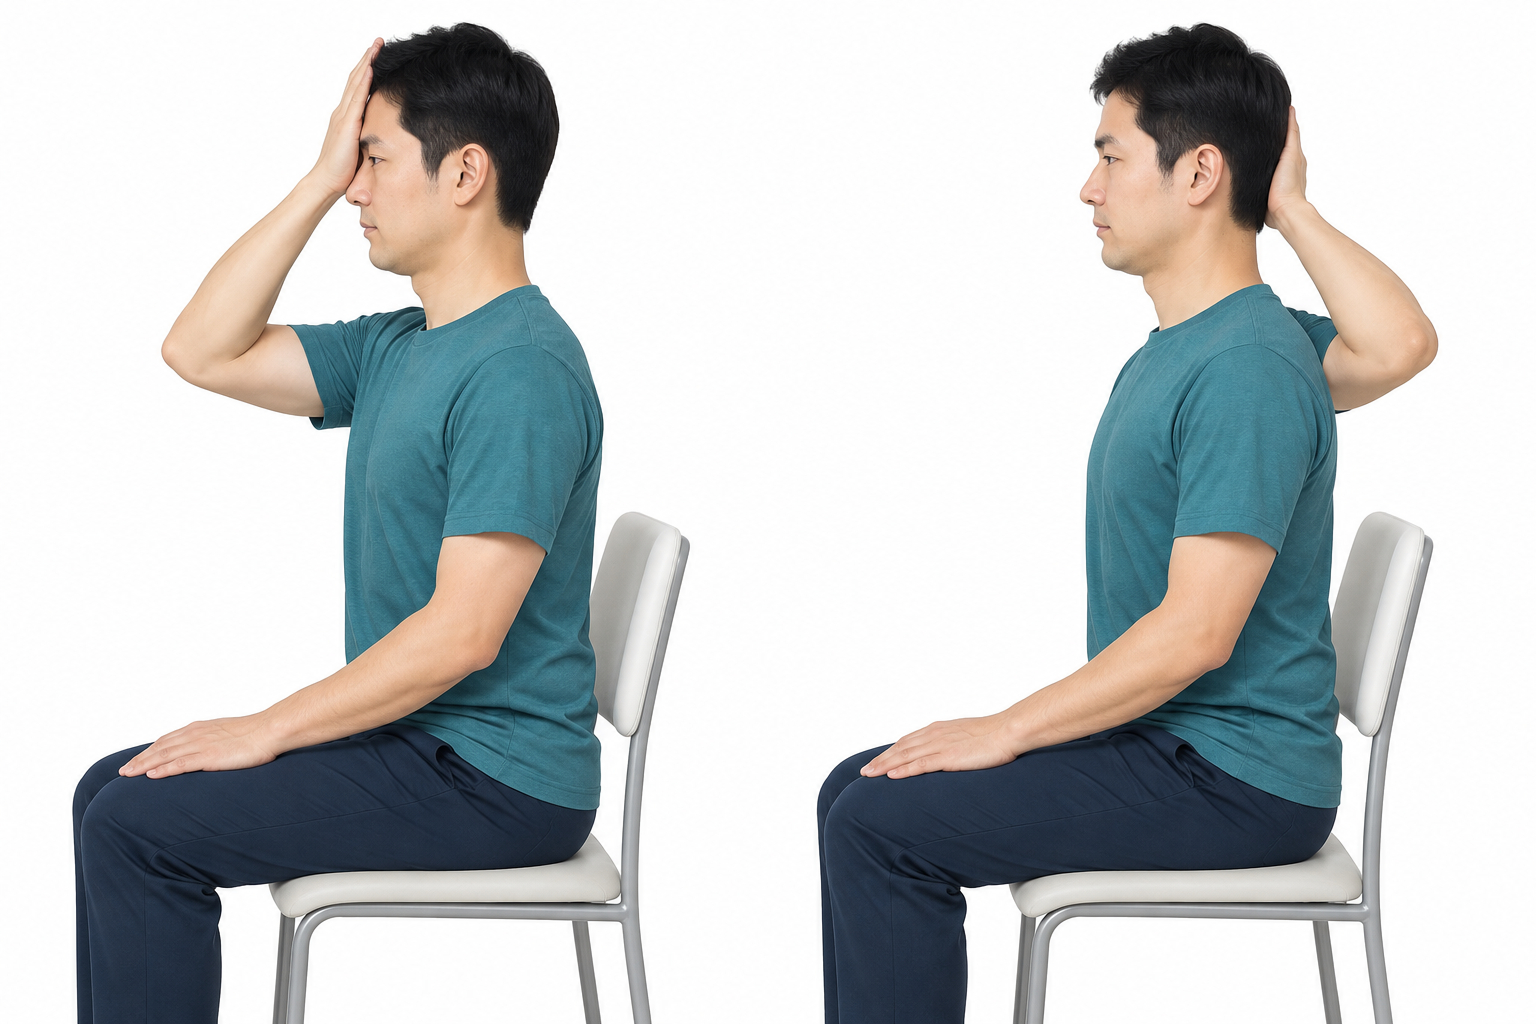
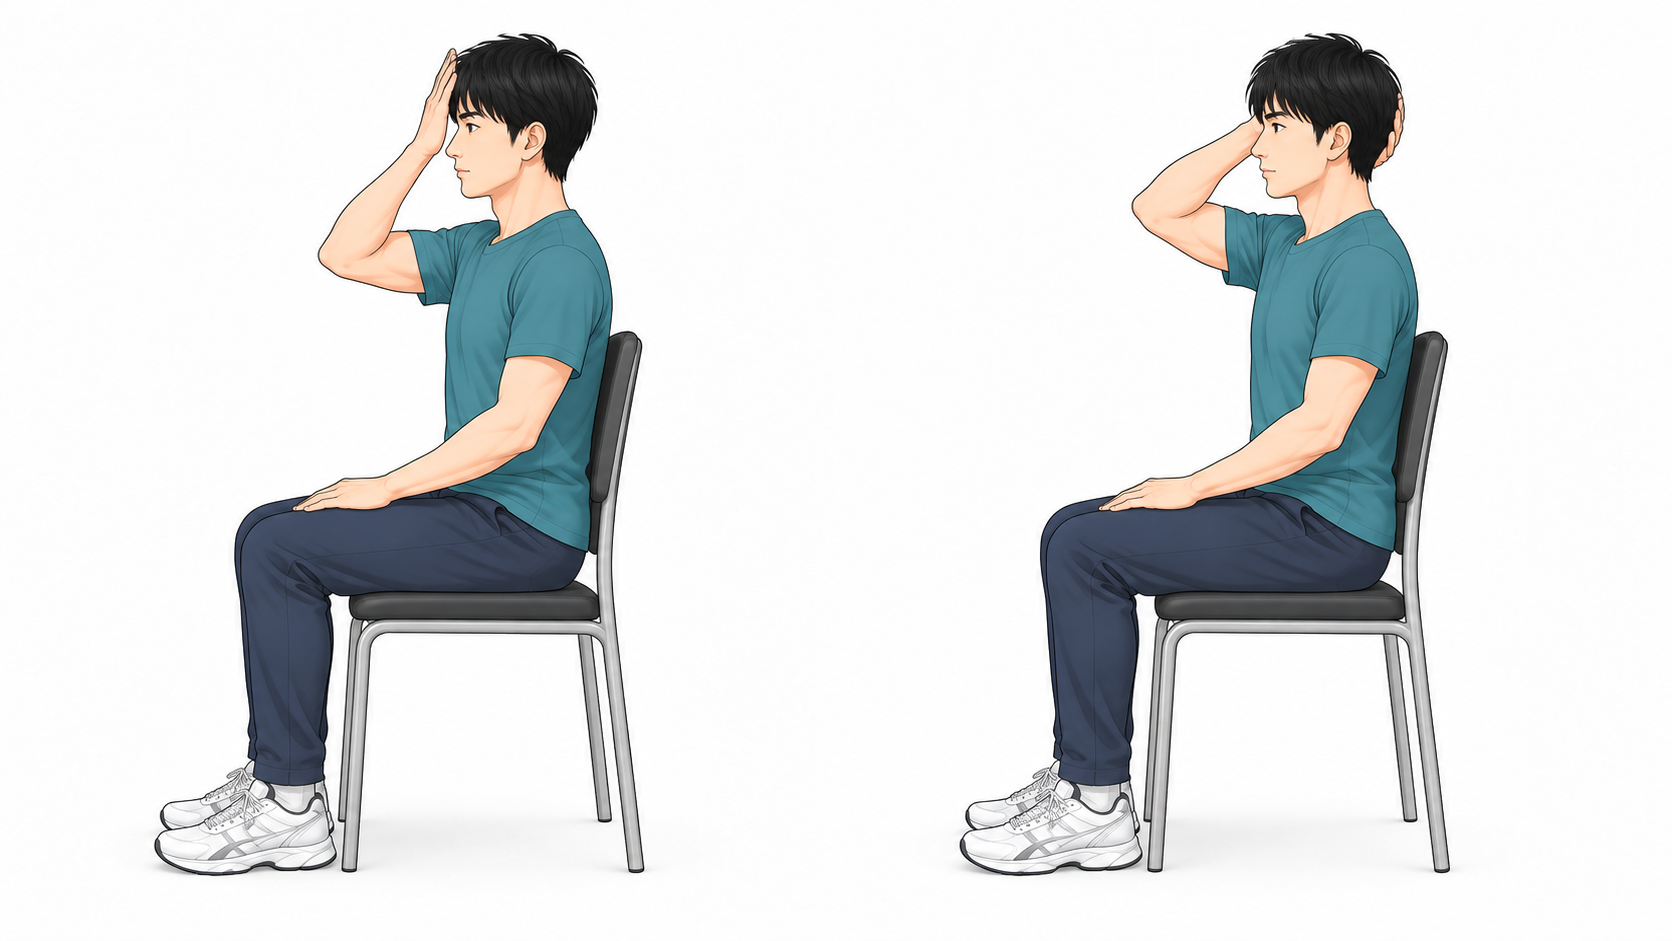
fix: unify four exercise illustrations

diff --git a/clinical-catalog.js b/clinical-catalog.js
@@ -909,22 +909,22 @@ const data={
     "T20": {
       "id": "T20",
       "key": "v02_T20",
-      "name": "横向きのゴムに耐える",
+      "name": "パロフプレス",
       "purpose": "回旋制御",
       "steps": [
-        "体の横に固定したゴムを胸前で持ち、両手を少し前へ伸ばして戻します。"
+        "体の横・胸の高さに固定したゴムを両手で胸前に持ちます。胸と骨盤を正面に保ったまま、両手を胸の正面へゆっくり押し出して戻します。左右を入れ替えて行います。"
       ],
       "doseProposal": "C：左右各5回",
       "caution": "体を回さない。分離症は回旋抵抗の許可を確認",
       "equipment": "ゴム、専用固定点",
       "gates": "G6該当時+G8",
-      "pose": "正面。固定点は真横の胸高。両手胸前→前方、骨盤前向き保持",
+      "pose": "正面。固定点は真横の胸高。両手を胸骨前から正中線上へ押し出し、胸郭・骨盤を正面に保持",
       "image": "images/T20.png",
-      "imageCaption": "",
-      "assetStatus": "採用候補",
-      "assetNotes": "側方胸高専用アンカー・胸前から前へ、骨盤前向き。",
+      "imageCaption": "横から引かれるゴムに対し、胸と骨盤を正面に保ったまま両手を前へ押し出します。",
+      "assetStatus": "生成画像・姿勢確認済み",
+      "assetNotes": "共通人物で統一。側方胸高アンカー、胸前から正中線上へ押し出す2姿勢、体幹・骨盤の正面保持を目視確認。",
       "clinicalStatus": "pending_review",
[2 lines of base64/hex data omitted]
     },
     "T21": {
       "id": "T21",
@@ -1824,11 +1824,11 @@ const data={
       "gates": "G0",
       "pose": "正面斜め。肘90°固定、棒の重心は手に近い。勢いを使わない",
       "image": "images/E08.png",
-      "imageCaption": "",
-      "assetStatus": "採用候補",
-      "assetNotes": "右肘体側で棒を回内外。短い木棒の把持位置は手に近い重心として読める。",
+      "imageCaption": "肘を体側で90度に保ち、前腕だけをゆっくり回して棒の向きを変えます。",
+      "assetStatus": "生成画像・姿勢確認済み",
+      "assetNotes": "共通人物で統一。右肘の体側固定、棒の垂直位から水平位への前腕回旋、正常な両上肢を目視確認。",
       "clinicalStatus": "pending_review",
[2 lines of base64/hex data omitted]
     },
     "E09": {
       "id": "E09",
@@ -2228,11 +2228,11 @@ const data={
       "gates": "G4該当時+G6該当時+G7+G8",
       "pose": "斜め上。低速で約30°の予定コース。固定足上の急な膝ねじりでない",
       "image": "images/P08.png",
-      "imageCaption": "",
-      "assetStatus": "採用候補",
-      "assetNotes": "予定された緩い曲線を数歩で進む。急な固定足上の捻りを描いていない。正確な角度・速度は本文に従う。",
+      "imageCaption": "床印に沿って低速で進み、予定した方向へ数歩かけて緩やかに曲がります。",
+      "assetStatus": "生成画像・姿勢確認済み",
+      "assetNotes": "共通人物の3時点で統一。予定された緩い曲線を歩行し、固定足上の急な膝ねじりを描いていないことを目視確認。",
       "clinicalStatus": "pending_review",
[2 lines of base64/hex data omitted]
     },
     "P09": {
       "id": "P09",
@@ -2341,9 +2341,9 @@ const data={
       "image": "images/N12.png",
       "imageCaption": "額と後頭部で、それぞれ手と頭を軽く押し合います。頭は動かさず、息を止めません。",
       "assetStatus": "生成画像・姿勢確認済み",
-      "assetNotes": "AI生成後に支持面・左右・動作方向を目視照合。動きの量と条件は本文・担当者の指示を併用。臨床承認を意味しない。",
+      "assetNotes": "共通人物で統一。額／後頭部への手掌接触、頭頚部中間位、反対手の大腿支持、正常な両上肢を目視確認。",
       "clinicalStatus": "pending_review",
[2 lines of base64/hex data omitted]
       "addedIn": "0.3",
       "evidenceRefs": [
         "R9"

diff --git a/bug-report.js b/bug-report.js
@@ -10,7 +10,7 @@ function bugReportEnvironment(nav){
   return `端末：${device}\nOS：${os}\nブラウザ：${browser}`;
 }
 function buildBugReport(intent,actual,nav,date){
-  return `【不具合報告】\nやろうとしたこと：\n${intent}\n\n実際に起きたこと：\n${actual}\n\nアプリ版：v67\n日時：${date.toISOString()}（UTC）\n${bugReportEnvironment(nav)}`;
+  return `【不具合報告】\nやろうとしたこと：\n${intent}\n\n実際に起きたこと：\n${actual}\n\nアプリ版：v68\n日時：${date.toISOString()}（UTC）\n${bugReportEnvironment(nav)}`;
 }
 function openBugReport(){
   modal('bugReportModal','不具合を報告',`
@@ -20,7 +20,7 @@ function openBugReport(){
     <textarea id="bug-intent" class="fld-inp" rows="3"></textarea>
     <label class="fld-lbl" for="bug-actual">実際に起きたこと</label>
     <textarea id="bug-actual" class="fld-inp" rows="3"></textarea>
-    <p class="hint">アプリ版v67・日時・端末/OS/ブラウザの種類だけを自動付記します。</p>
+    <p class="hint">アプリ版v68・日時・端末/OS/ブラウザの種類だけを自動付記します。</p>
     <button id="bug-copy" class="btn btn-pri" type="button">報告文をコピー</button>
     <p id="bug-status" role="status" aria-live="polite"></p>
     <div id="bug-fallback" hidden>

diff --git a/sw.js b/sw.js
@@ -2,10 +2,10 @@
 importScripts('./exercises.js');
 importScripts('./clinical-catalog.js');
 const PREFIX = 'patient-rehab-' + encodeURIComponent(self.registration.scope) + '-';
-const CACHE = PREFIX + 'v67';
+const CACHE = PREFIX + 'v68';
 const IMAGE_CACHE = PREFIX + 'clinical-images-v2';
 const IMAGE_URLS = new Set(Object.values(ClinicalCatalog.definitions).filter(d=>d.image).map(d=>new URL(d.image,self.registration.scope).href));
-const REFRESHED_IMAGE_URLS = ['./images/P20.png','./images/P23.png'].map(path=>new URL(path,self.registration.scope).href);
+const REFRESHED_IMAGE_URLS = ['./images/P20.png','./images/P23.png','./images/E08.png','./images/N12.png','./images/P08.png','./images/T20.png'].map(path=>new URL(path,self.registration.scope).href);
 const FILES = ['./','./index.html','./manifest.json','./clinical-catalog.js','./clinical-rules.js','./clinical-ui.js','./clinical-review.html','./core.js','./exercises.js','./prescription-defaults.js','./disease-library.js','./exercise-selection.js','./ui.js','./app-v2.js','./bug-report.js','./exercise-print.js','./exercise-video.js','./patient-video.js','./clinical-evidence.js','./exercise-evidence.js','./app-v2.css',
   './icon-180.png','./icon-192.png','./icon-512.png',
   './vendor/lz-string.min.js','./vendor/qrcode.min.js','./vendor/html5-qrcode.min.js',

diff --git a/README.md b/README.md
@@ -1,5 +1,12 @@
 # 患者リハビリチェックアプリ
 
+## 2026-09-28 共通人物での4画像修正とパロフプレス表記（v68）
+
+- E08・N12・P08・T20のイラストを、黒髪・青緑シャツ・紺パンツの共通人物と同じ教材風の描画に統一しました。
+- E08は肘を体側に固定した前腕回旋、N12は額／後頭部での頚部等尺性運動、P08は予定した緩い方向転換が読み取れる構図へ更新しました。
+- T20は名称を「パロフプレス」に統一し、胸前から正面へ押し出しながら体幹・骨盤の回旋を抑える手順へ整理しました。
+- 既存利用者にも新画像が届くよう、対象4画像を強制更新対象へ追加しました。
+
 ## 2026-09-28 スコーピオン動作順の修正（v67）
 
 - 「小さなスコーピオン」を、開始姿勢と、右膝約90度屈曲・右股関節軽度伸展後に右踵を身体の左側へ回した終点の2姿勢へ修正しました。
